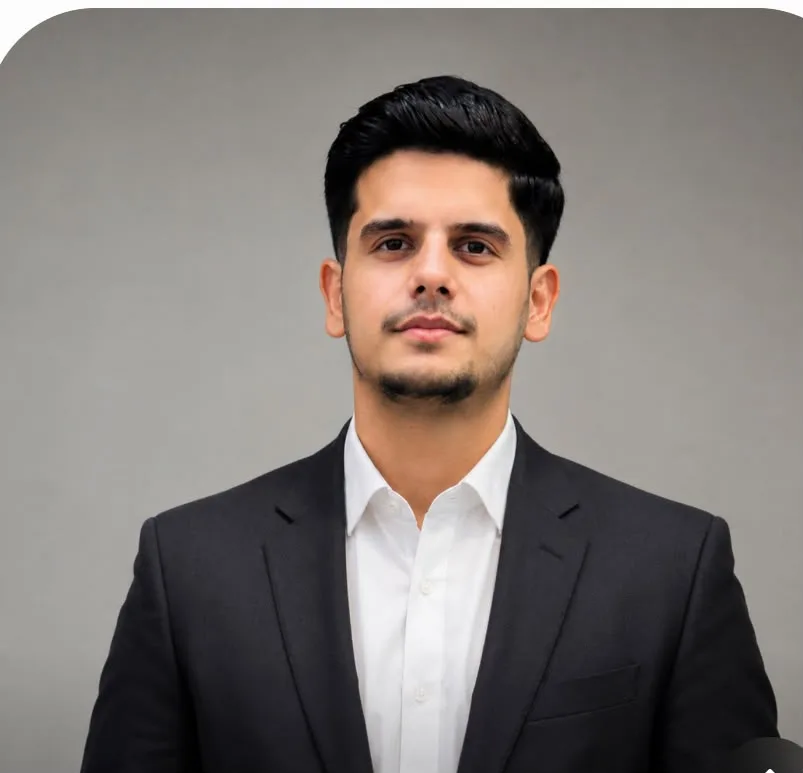
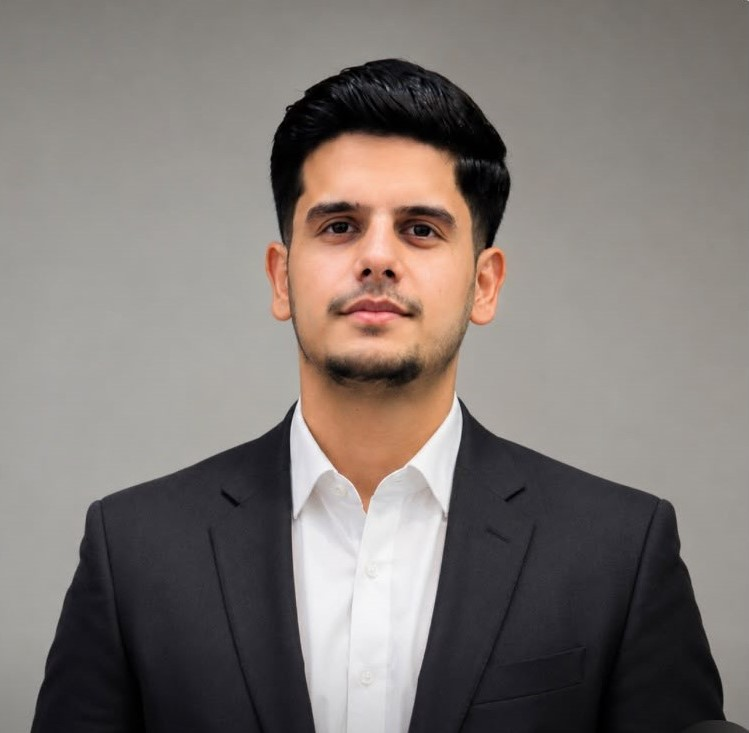
Fix some bugs and errors and full final seting

diff --git a/frontend/src/pages/Trainers.jsx b/frontend/src/pages/Trainers.jsx
@@ -10,11 +10,11 @@ const trainersData = [
   { id: 1, name: "Bhavish Kumar", role: "AI & React instructor", image: Bhavish, description: "2+ years AI and React development experience.", courses: 2, students: 300 },
   { id: 2, name: "Areeba Siddique", role: "React Native Instructor", image: areeba, description: "3+ years of experience in mobile app development with React Native.", courses: 1, students: 400 },
   { id: 3, name: "Sammad UL Hassan", role: "React JS instructor", image: Sammad, description: "1+ years of experience in web development with React JS.", courses: 1, students: 80 },
-  { id: 4, name: "Samreen", role: "Instructor", image: Samreen, description: "Scaled 3 startups from zero to Series B.", courses: 5, students: 22000 },
-  { id: 5, name: "Emily Johnson", role: "Full Stack Developer", image: "/teacher5.jfif", description: "Expert in MERN stack and building scalable web applications.", courses: 10, students: 35000 },
-  { id: 6, name: "Michael Anderson", role: "Python & AI Trainer", image: "/teacher6.jfif", description: "AI specialist teaching Python, ML, and real-world projects.", courses: 9, students: 29000 },
-  { id: 7, name: "Sophia Williams", role: "Cloud Engineer", image: "/teacher7.jfif", description: "Cloud expert helping students master modern technologies.", courses: 7, students: 27000 },
-  { id: 8, name: "James Wilson", role: "Backend Engineer", image: "/teacher8.jfif", description: "Backend specialist focused on APIs and databases.", courses: 11, students: 39000 },
+  { id: 4, name: "Samreen Shahzadi", role: "Artificial Intelligence & Data Science Instructor", image: Samreen, description: "Expert in AI and data science with a focus on real-world applications.", courses: 2, students: 50 },
+  // { id: 5, name: "Emily Johnson", role: "Full Stack Developer", image: "/teacher5.jfif", description: "Expert in MERN stack and building scalable web applications.", courses: 10, students: 35000 },
+  // { id: 6, name: "Michael Anderson", role: "Python & AI Trainer", image: "/teacher6.jfif", description: "AI specialist teaching Python, ML, and real-world projects.", courses: 9, students: 29000 },
+  // { id: 7, name: "Sophia Williams", role: "Cloud Engineer", image: "/teacher7.jfif", description: "Cloud expert helping students master modern technologies.", courses: 7, students: 27000 },
+  // { id: 8, name: "James Wilson", role: "Backend Engineer", image: "/teacher8.jfif", description: "Backend specialist focused on APIs and databases.", courses: 11, students: 39000 },
 ];
 
 function Trainers() {

diff --git a/frontend/src/pages/About.jsx b/frontend/src/pages/About.jsx
@@ -10,28 +10,46 @@ import iqra from "../assets/images/Iqra.webp";
 import Aree from "../assets/images/Areeba.webp";
 import ourMission from "../assets/images/our mission.webp";
 import ourVision from "../assets/images/our vission.webp";
+import Areeba from "../assets/images/Areeba Ajaz.webp";
+import Meer from "../assets/images/Meer.webp";
+import bhavish from "../assets/images/Bhavish .webp";
 
 function About() {
   const teamMembers = [
     {
       name: "Haseeb UL Hassan",
-      role: "Founder & CEO",
+      role: "Founder & CEO ",
       image: haseeb,
     },
     {
       name: "Khadeeja Zafar",
-      role: "HR & Marketing Manager",
+      role: "Human Resources & Marketing Team Leader",
       image: khadeeja,
     },
     {
       name: "Areeba Siddique",
-      role: "Web Team Leader",
+      role: "Web Team Leader & React Developer",
       image: Aree,
     },
     {
-      name: "Hira Rajput",
+      name: "Areeba Ajaz",
       role: "Marketing Executive",
+      image: Areeba,
+    },
+    {
+      name: "Hira Rajput",
+      role: "Marketing Executive & wordpress Developer",
       image: Hira,
+    },
+    {
+      name: "Meer Muhammad",
+      role: "Social Media Executive",
+      image: Meer,
+    },
+    {
+      name: "Bhavish Kumar ",
+      role: "React Developer & AI Developer",
+      image: bhavish,
     },
     {
       name: "Seema Sibyani",

diff --git a/frontend/src/components/Layout/Navbar.jsx b/frontend/src/components/Layout/Navbar.jsx
@@ -23,7 +23,7 @@ function Navbar() {
         <Link to="/" className="flex min-w-0 items-center gap-2 sm:gap-3" onClick={closeMenu}>
           <div className="flex h-9 w-9 items-center justify-center overflow-hidden rounded-full bg-white/10 p-1 sm:h-12 sm:w-12">
             <img
-              src="/softnovalogo (2).webp"
+              src="/softnova-logo.webp"
               alt="SoftNova Academy"
               className="h-full w-full rounded-full object-cover"
             />

diff --git a/frontend/src/pages/Home.jsx b/frontend/src/pages/Home.jsx
@@ -102,11 +102,11 @@ const instructors = [
     image: Sammad,
   },
   {
-  name: "Samreen",
-  role: "Instructor",
-  bio: "Experienced instructor and mentor.",
-  courses: 1,
-  students: "100",
+  name: "Samreen Shahzadi",
+  role: "Artificial Intelligence & Data Science Instructor",
+  bio: "Expert in AI and data science with a focus on real-world applications.",
+  courses: 2,
+  students: "50",
   image: Samreen,
 },
 ];

diff --git a/frontend/public/index.html b/frontend/public/index.html
@@ -4,7 +4,7 @@
     <meta charset="utf-8" />
 
     <!-- Favicon -->
-  <link rel="icon" type="image/png" href="/Logo 2.png" />
+  <link rel="icon" type="image/png" href="/Logo 22.png" />
 
     <meta name="viewport" content="width=device-width, initial-scale=1" />
     <meta name="theme-color" content="#000000" />
